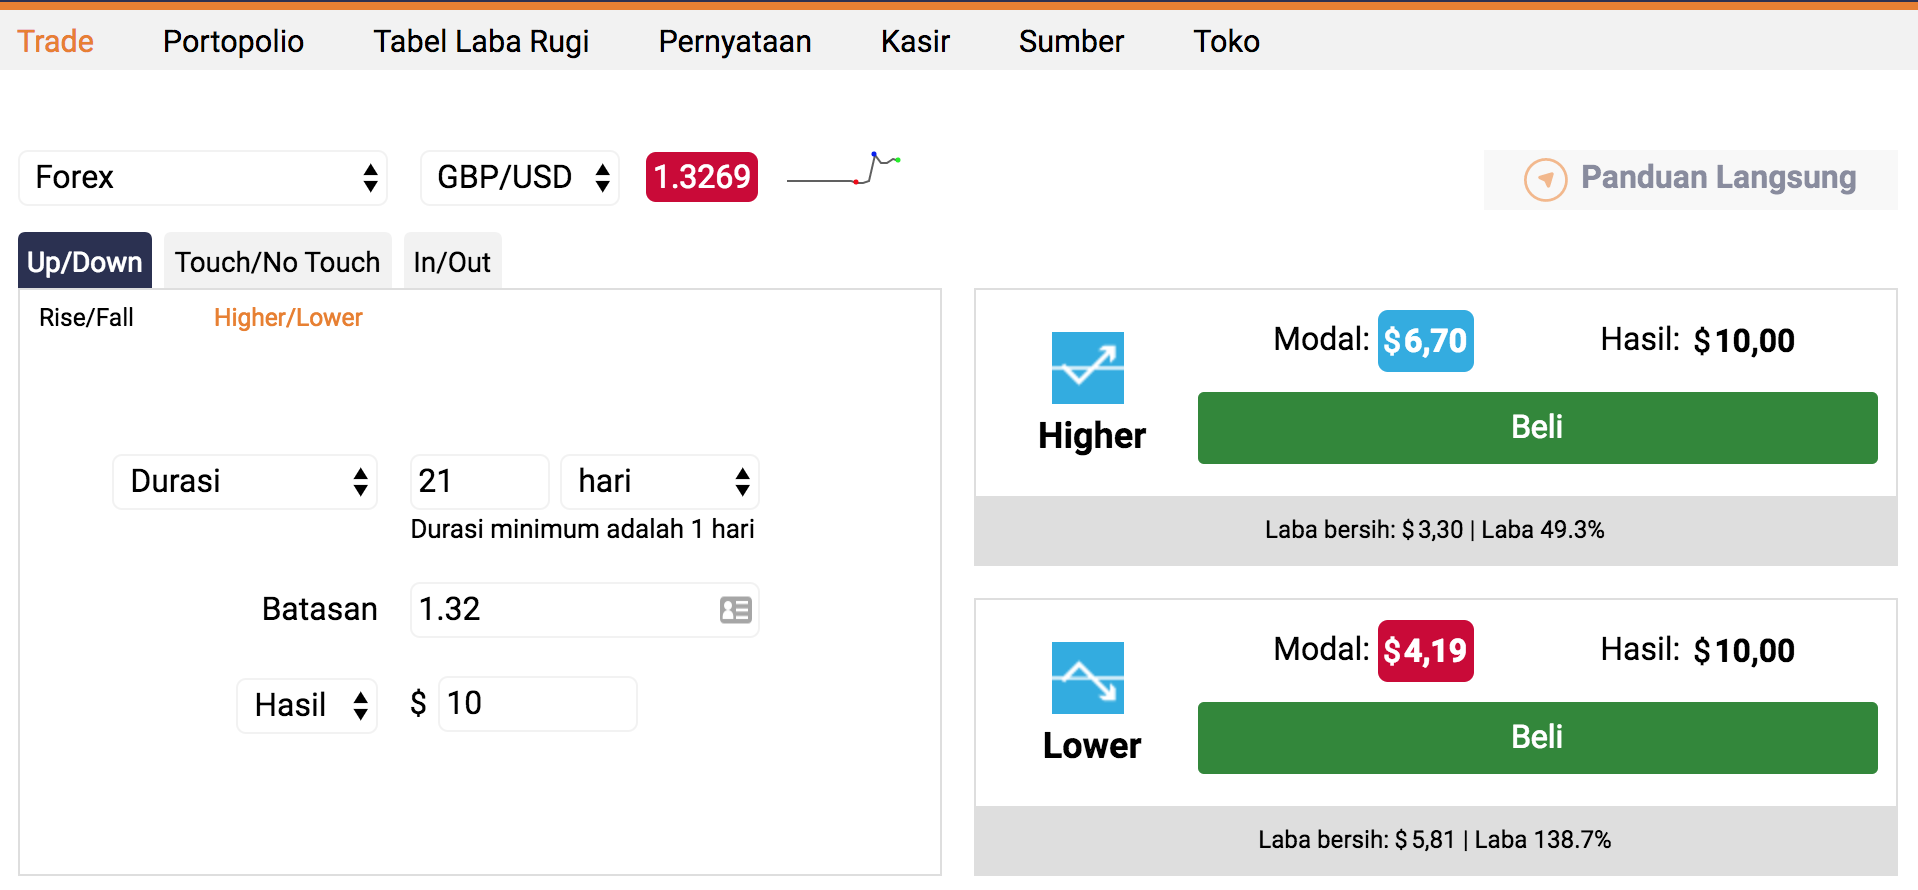
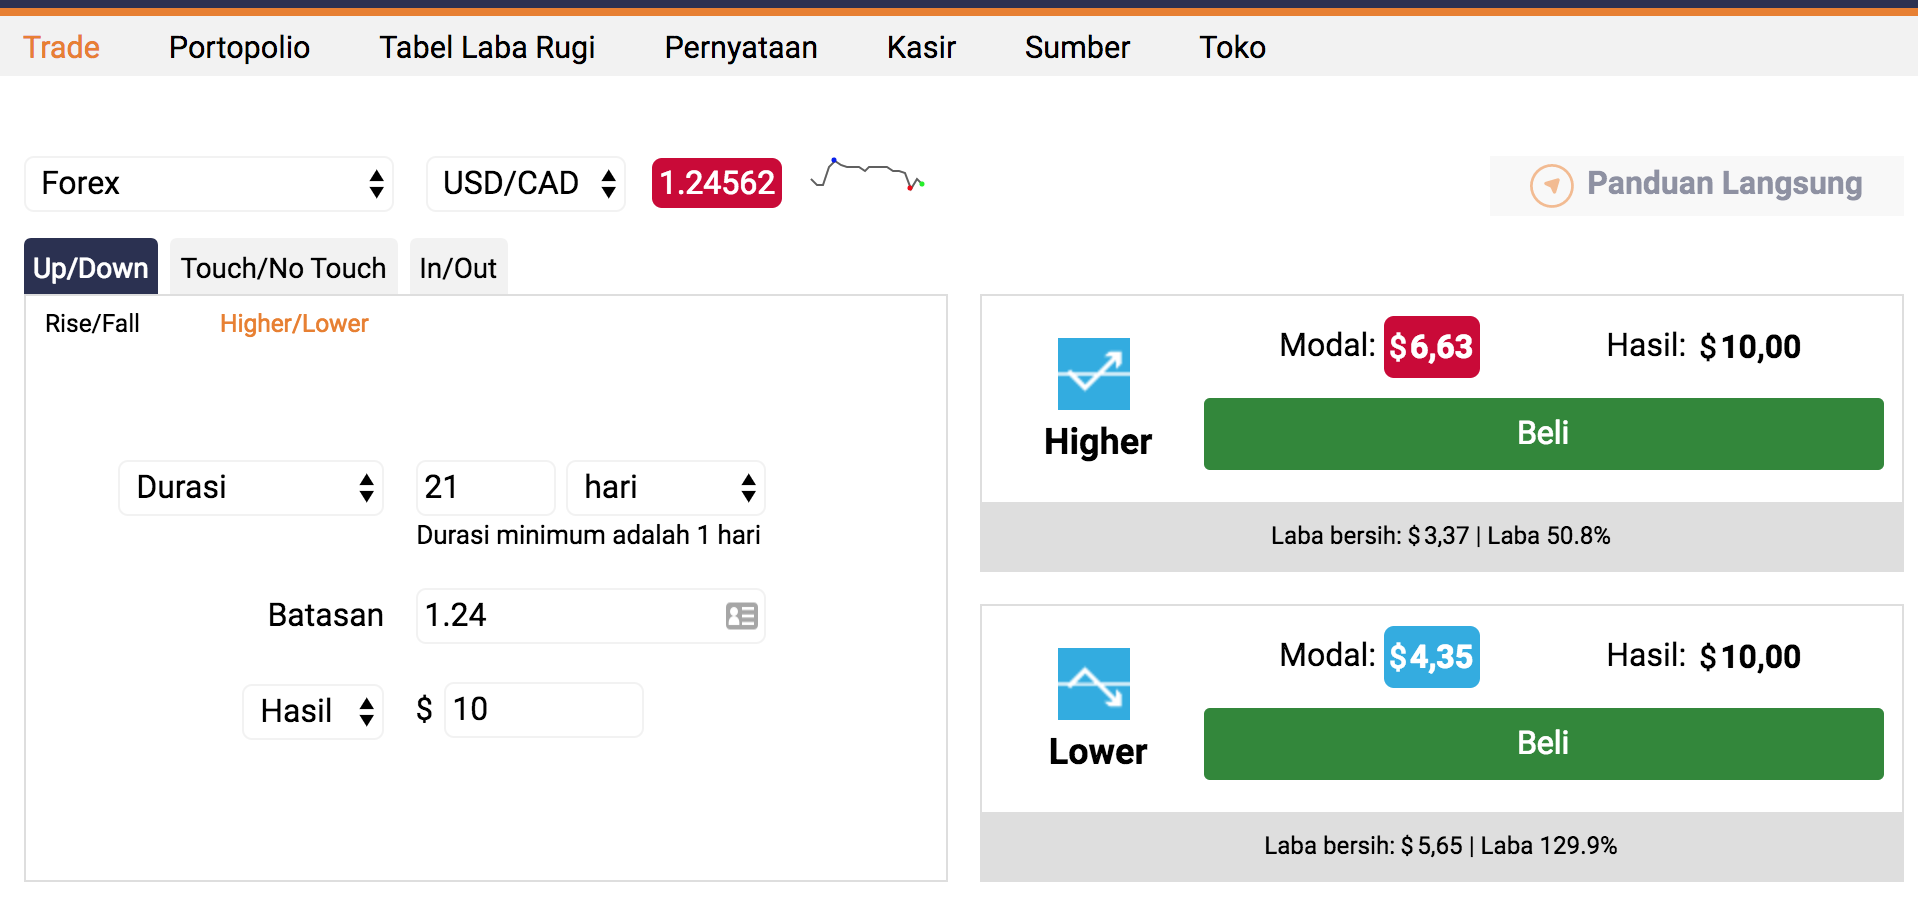
trade idea fix

diff --git a/_posts/id/2017-10-04-report-id.md b/_posts/id/2017-10-04-report-id.md
@@ -29,4 +29,4 @@ Masih terlalu dini untuk mengatakan apakah pelemahan dolar bisa menjadi pembalik
 
 <img src="{{ site.url }}/images/oct/id-04-oct-17.png" alt="{{ page.title }}" title="{{ page.title }}">
 
-<a href="%LINK%%?currency=USD&market=forex&underlying=frxGBPUSD&formname=higherlower&duration_amount=21&duration_units=d&amount=10&amount_type=payout&expiry_type=duration&barrier=1.32" target="_blank">Cara terbaik untuk memanfaatkan situasi ini adalah dengan bertrading LOWER menganalisa USD/CAD akan ditutup dibawah 1.3200 dalam 21 hari dengan potensi laba sekitar 145%.</a>
+<a href="%LINK%%?currency=USD&market=forex&underlying=frxUSDCAD&formname=higherlower&duration_amount=21&duration_units=d&expiry_type=duration&amount=10&amount_type=payout&barrier=1.24000" target="_blank">Cara terbaik untuk memanfaatkan situasi ini adalah dengan bertrading LOWER menganalisa USD/CAD akan ditutup dibawah 1.2400 dalam 21 hari dengan potensi laba sekitar 145%.</a>
